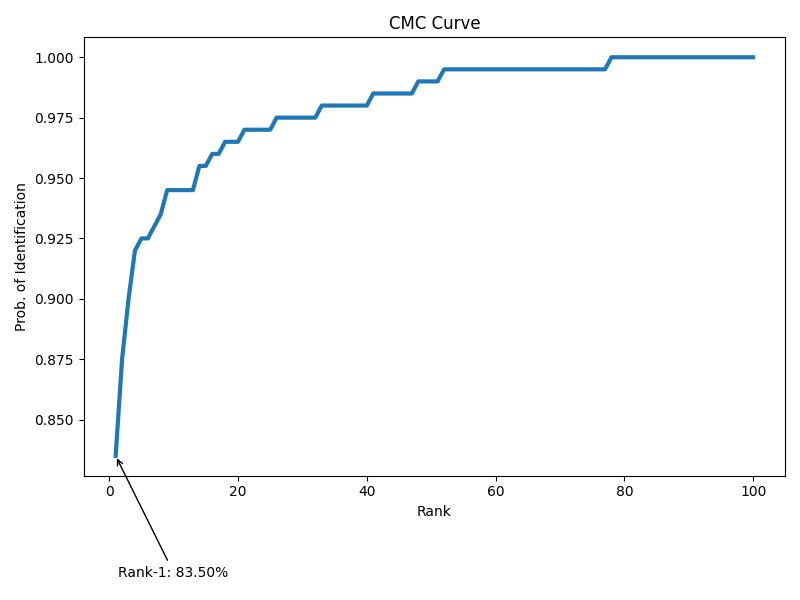
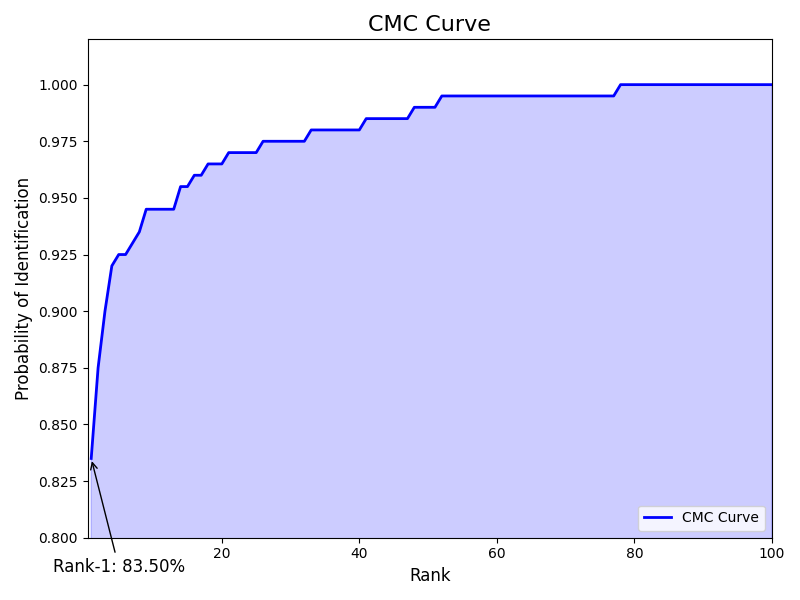
[FIX] plots for identification closed set

diff --git a/src/identification/closed/evaluation.py b/src/identification/closed/evaluation.py
@@ -16,15 +16,12 @@ from torch_optimizer import Lookahead, RAdam
 from utils.config import DATASET_PATH, HAND, PATIENTS, SEED, SPECTRUM
 from utils.functions import mapping, split_identification_closed
 
-OUTPUT_PATH = "./src/identification/closed"
+OUTPUT_PATH = "./src/identification/closed/"
 
 
 def plot_cmc_curve(
-    all_scores: list, all_labels: list, directory: str, title="CMC Curve"
+    all_scores: np.ndarray, all_labels: np.ndarray, directory: str, title="CMC Curve"
 ) -> None:
-    import matplotlib.pyplot as plt
-    import numpy as np
-
     num_classes = all_scores.shape[1]
     num_samples = len(all_labels)
     sorted_indices = np.argsort(-all_scores, axis=1)
@@ -37,23 +34,36 @@ def plot_cmc_curve(
     cmc = rank_matches / num_samples
 
     plt.figure(figsize=(8, 6))
-    plt.plot(
-        range(1, num_classes + 1), cmc, linestyle="-", linewidth=3, label="CMC Curve"
+    (line,) = plt.plot(
+        range(1, num_classes + 1),
+        cmc,
+        linestyle="-",
+        linewidth=2,
+        color="b",
+        label="CMC Curve",
     )
-    plt.xlabel("Rank")
-    plt.ylabel("Prob. of Identification")
-    plt.title(title)
-
+    plt.fill_between(
+        range(1, num_classes + 1),
+        cmc,
+        alpha=0.2,
+        color="b",
+        label="_nolegend_",
+    )
     rank_1_rate = cmc[0]
     plt.annotate(
         f"Rank-1: {rank_1_rate:.2%}",
         xy=(1, rank_1_rate),
-        xytext=(10, rank_1_rate - 0.05),
+        xytext=(5, rank_1_rate - 0.05),
         arrowprops=dict(facecolor="black", arrowstyle="->"),
-        fontsize=10,
+        fontsize=12,
         ha="center",
     )
-
+    plt.xlim([0.5, num_classes])
+    plt.ylim([0.8, 1.02])
+    plt.xlabel("Rank", fontsize=12)
+    plt.ylabel("Probability of Identification", fontsize=12)
+    plt.title(title, fontsize=16)
+    plt.legend(handles=[line], loc="lower right", fontsize=10)
     plt.tight_layout()
     plt.savefig(directory + "out/cmc_curve.png")
     plt.close()
@@ -66,7 +76,7 @@ def plot_confusion_matrix(
     TN, FP, FN, TP = conf_matrix.ravel()
 
     disp = ConfusionMatrixDisplay(
-        confusion_matrix=conf_matrix, display_labels=["Mismatch", "Match"]
+        confusion_matrix=conf_matrix, display_labels=["Negative", "Positive"]
     )
     disp.plot(cmap="Blues", values_format="d")
     plt.title(title)
